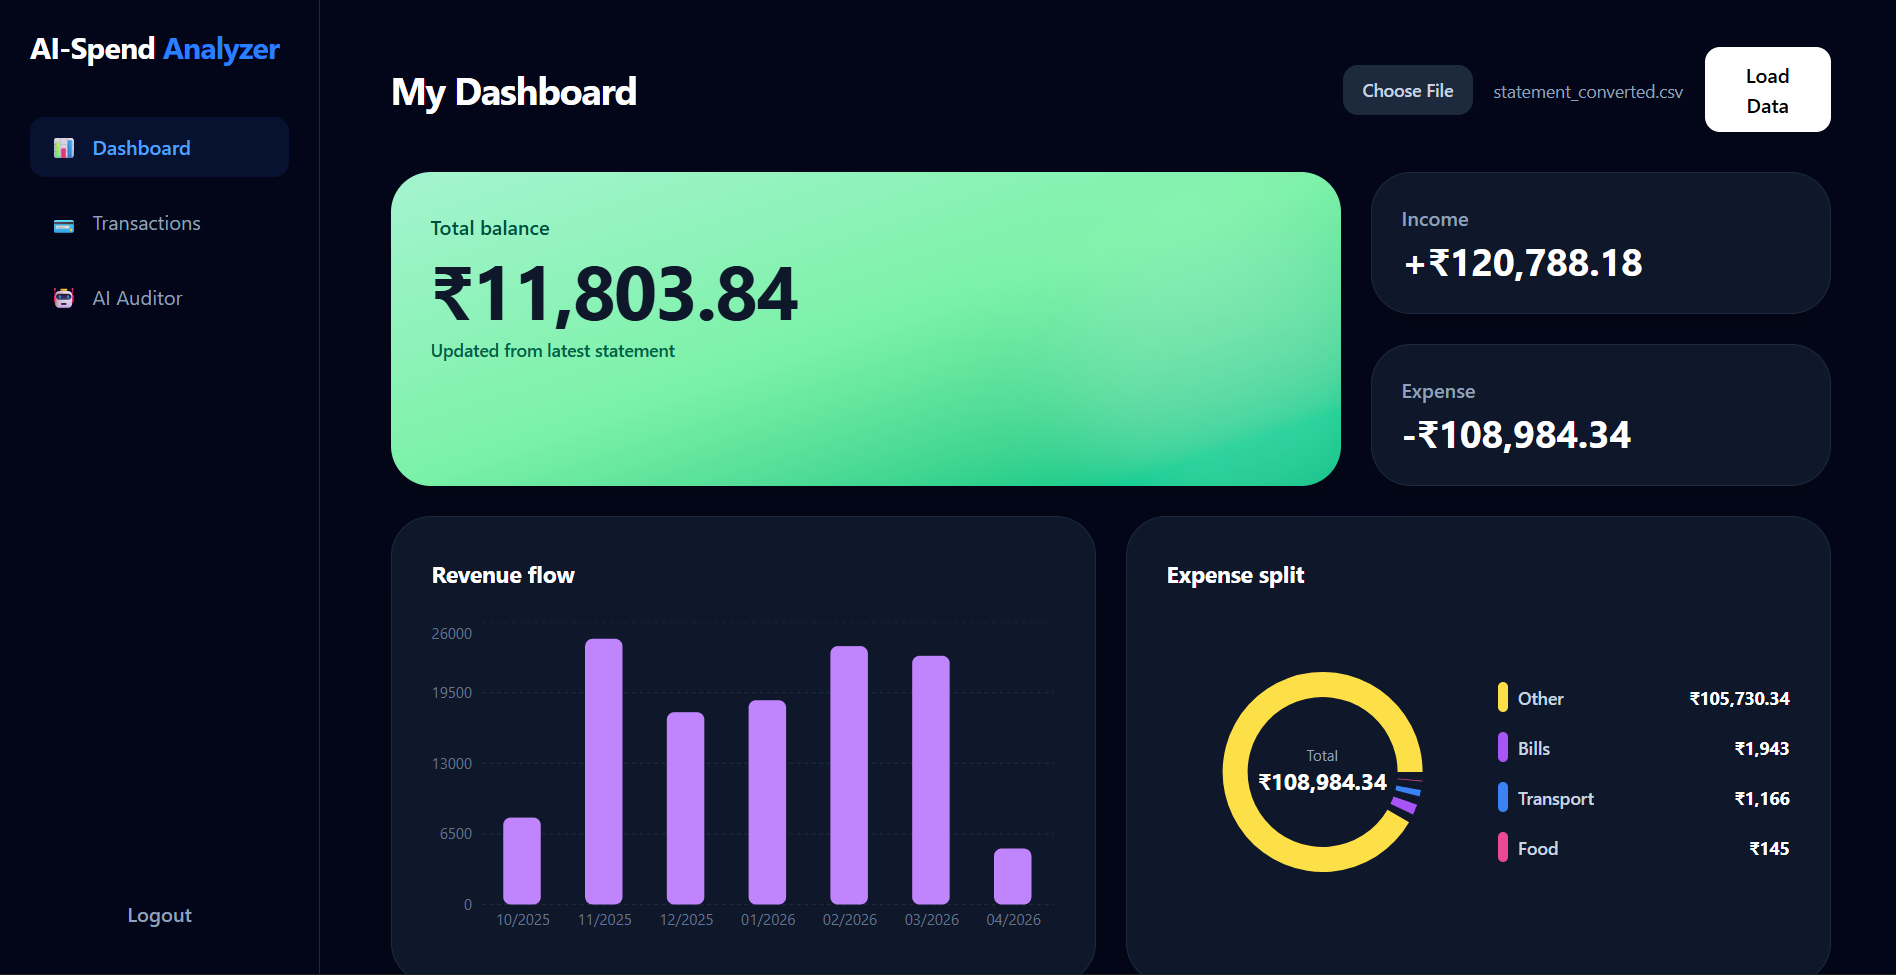
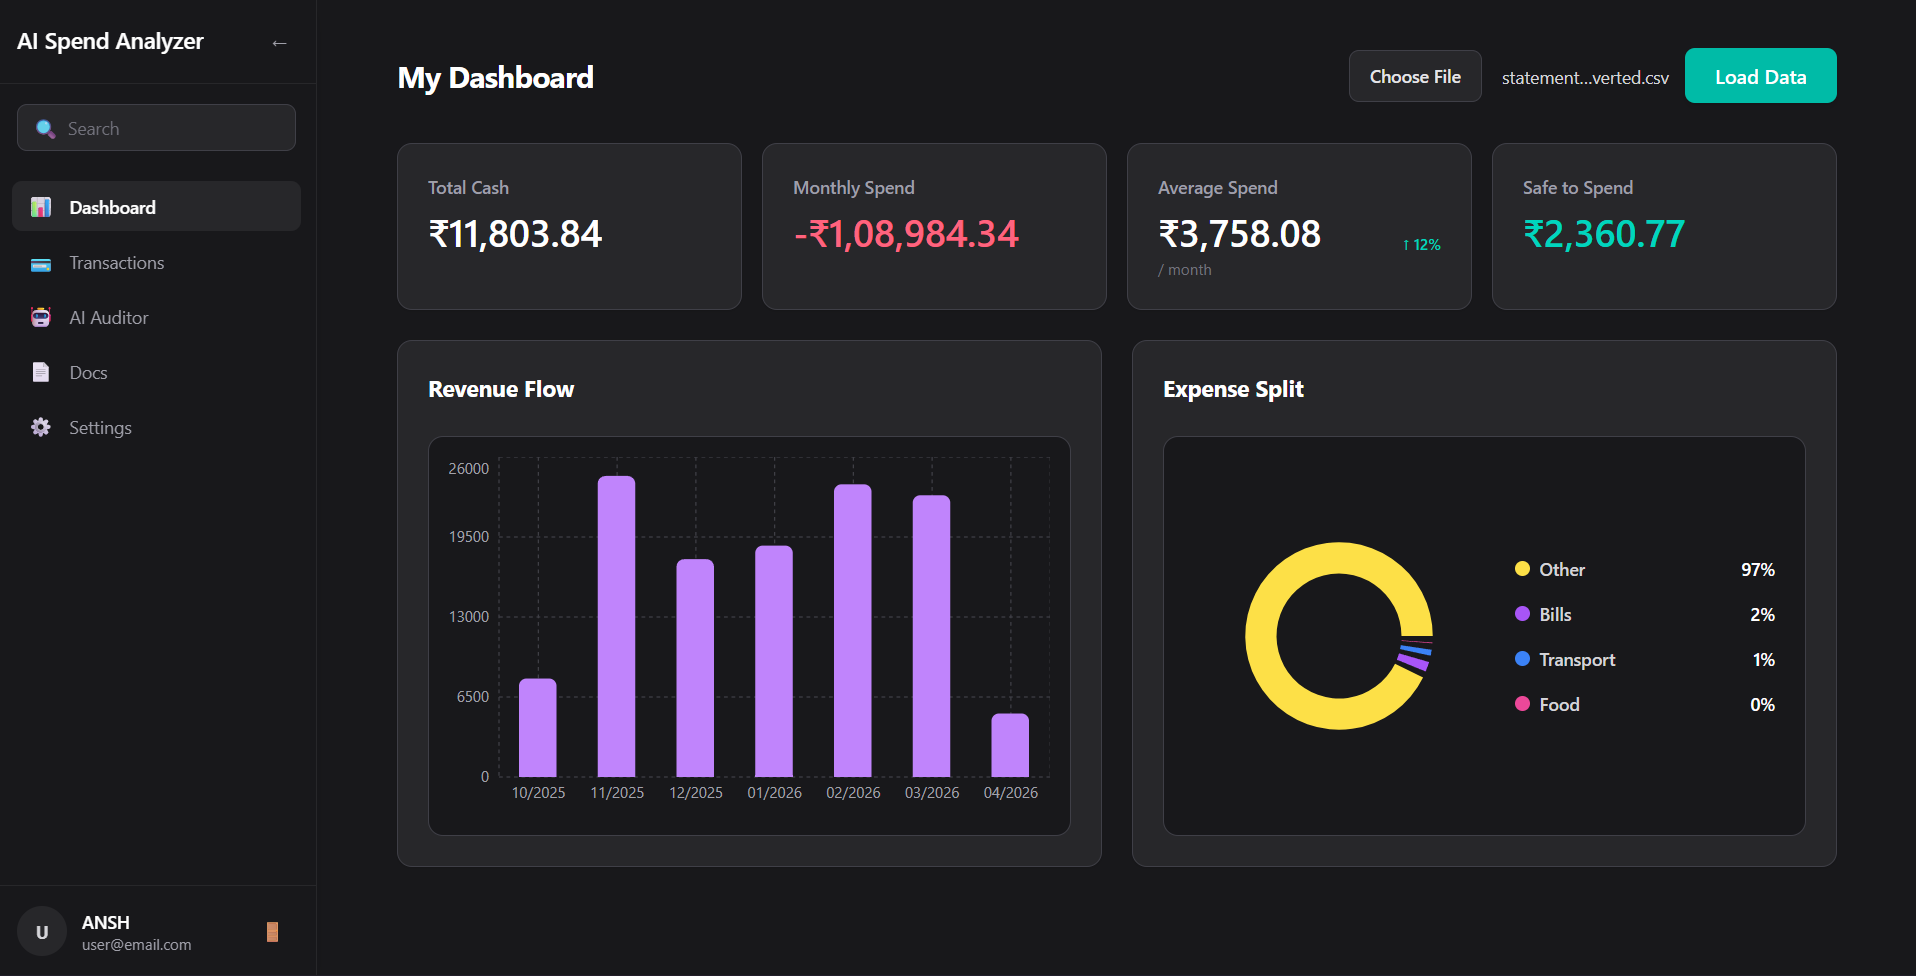
Docs: Update project screenshots in README

diff --git a/README.md b/README.md
@@ -1,6 +1,6 @@
 # AI Spend Analyzer 
 
-**Live Demo:** [View Application](https://ai-spend-analyzer-95mu9j05j-ansh-s-projects-54e1ec7d.vercel.app/)
+**Live Demo:** [View Application](https://ai-spend-analyzer.vercel.app/)
 
 AI Spend Analyzer is a full-stack financial dashboard designed to ingest raw bank statements, aggregate financial data, and utilize artificial intelligence to act as a personal financial auditor. It automatically visualizes income/expense flows and flags suspicious or unusual transactions using the Gemini LLM.
 
